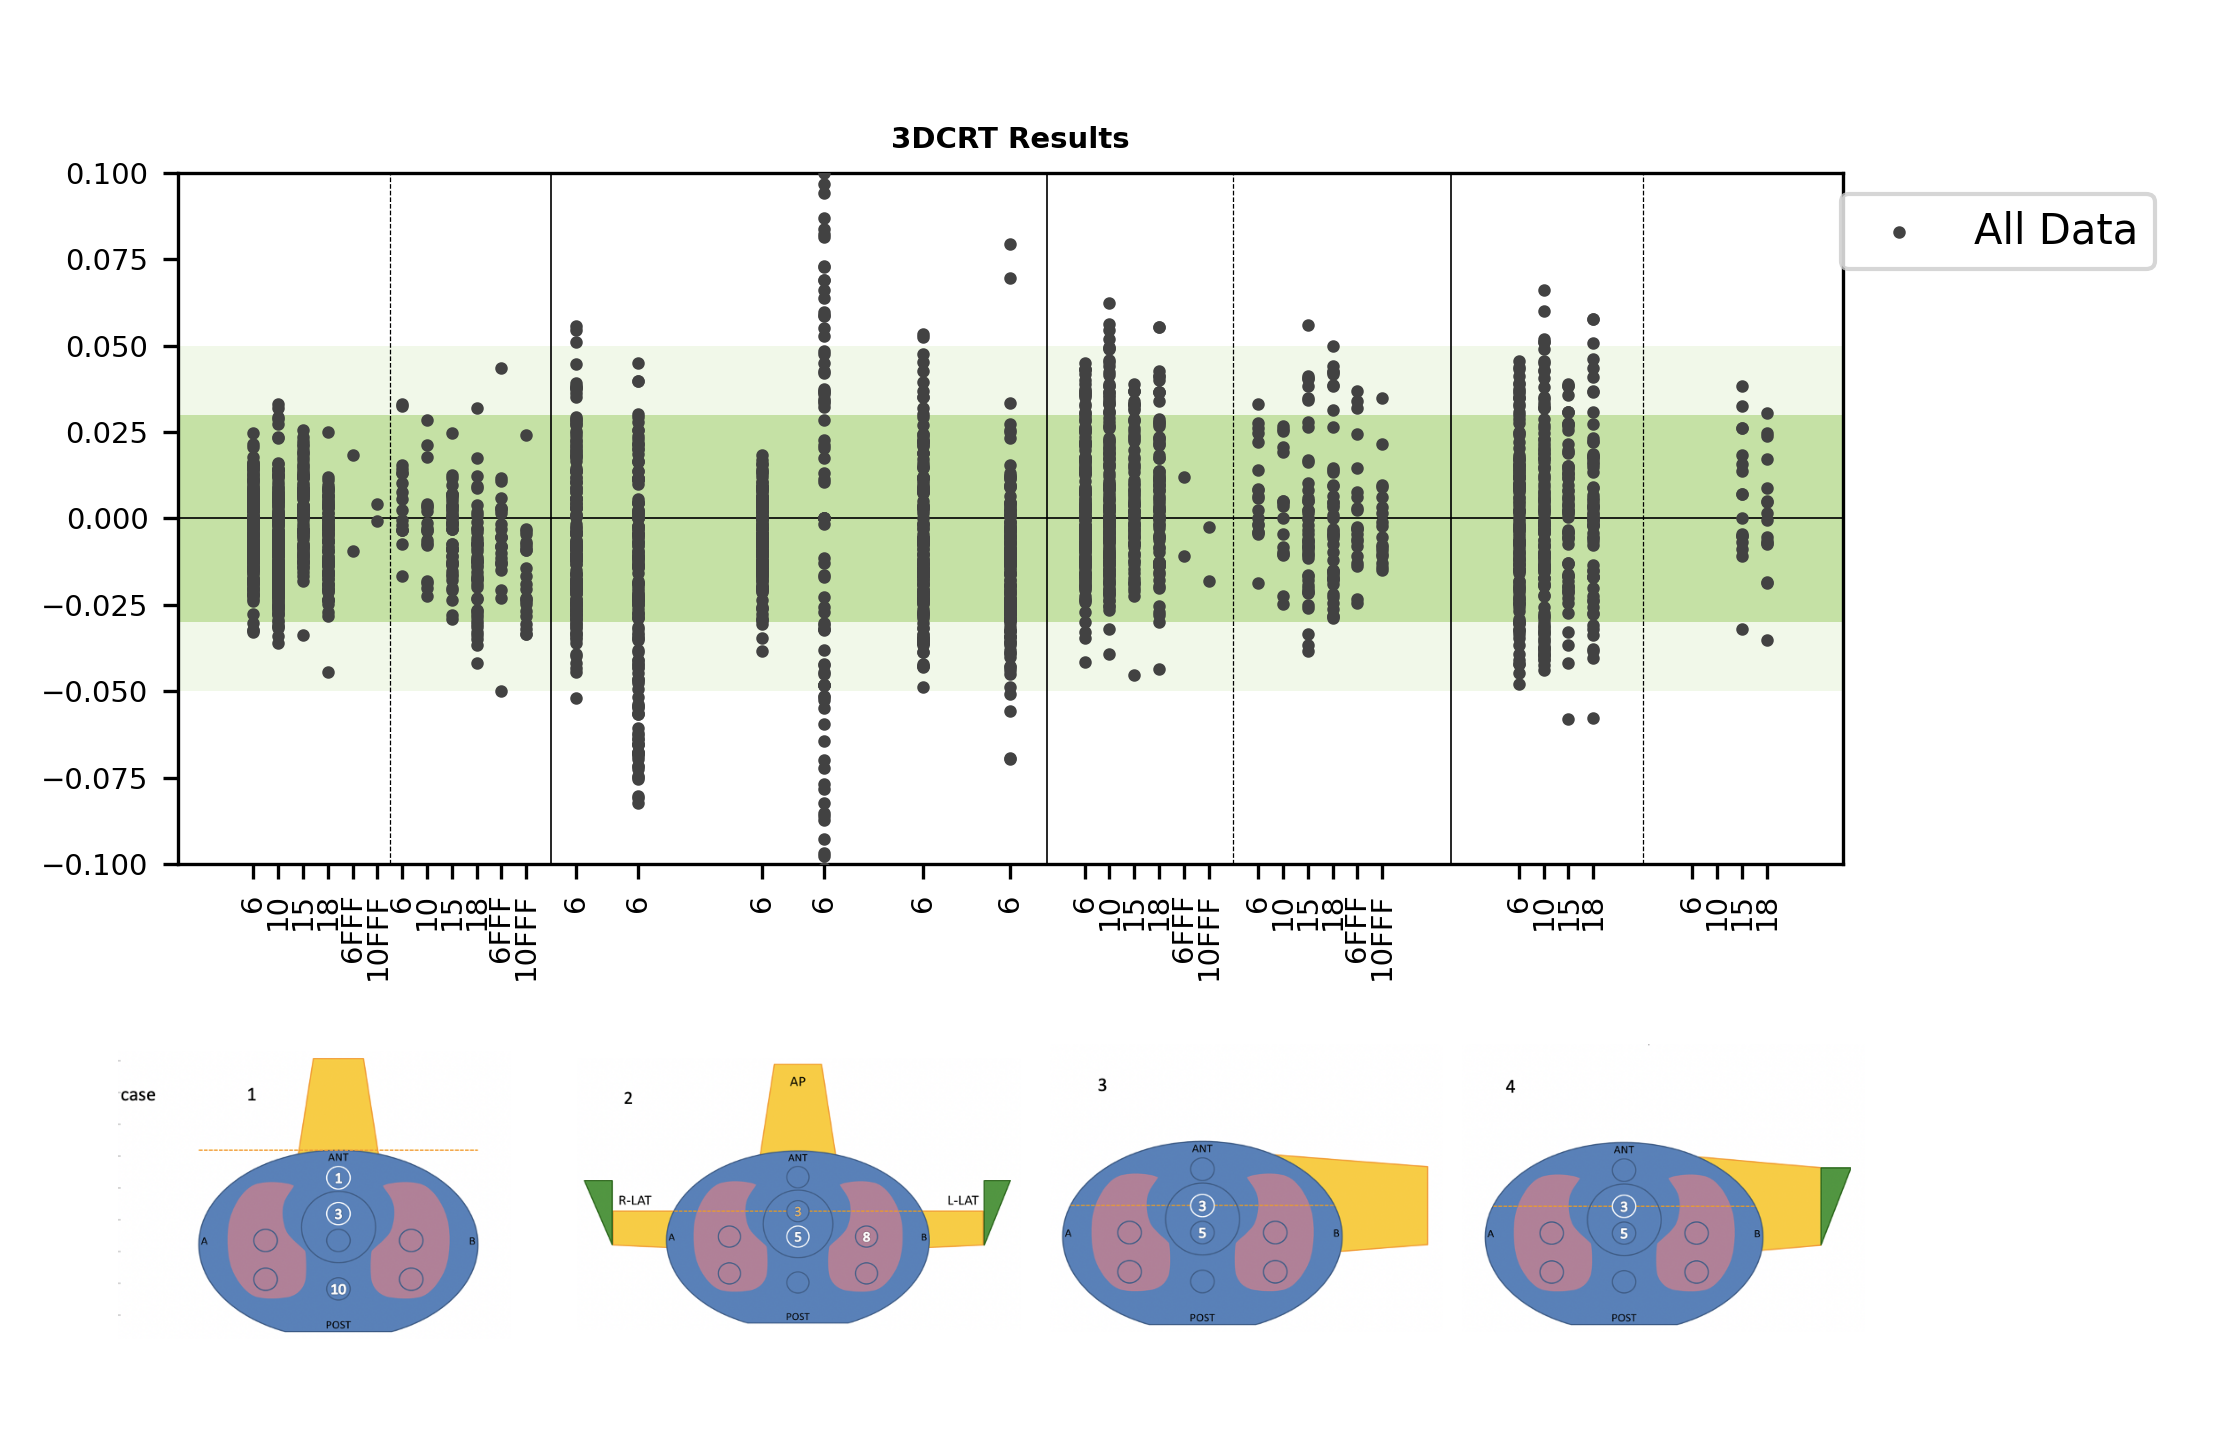
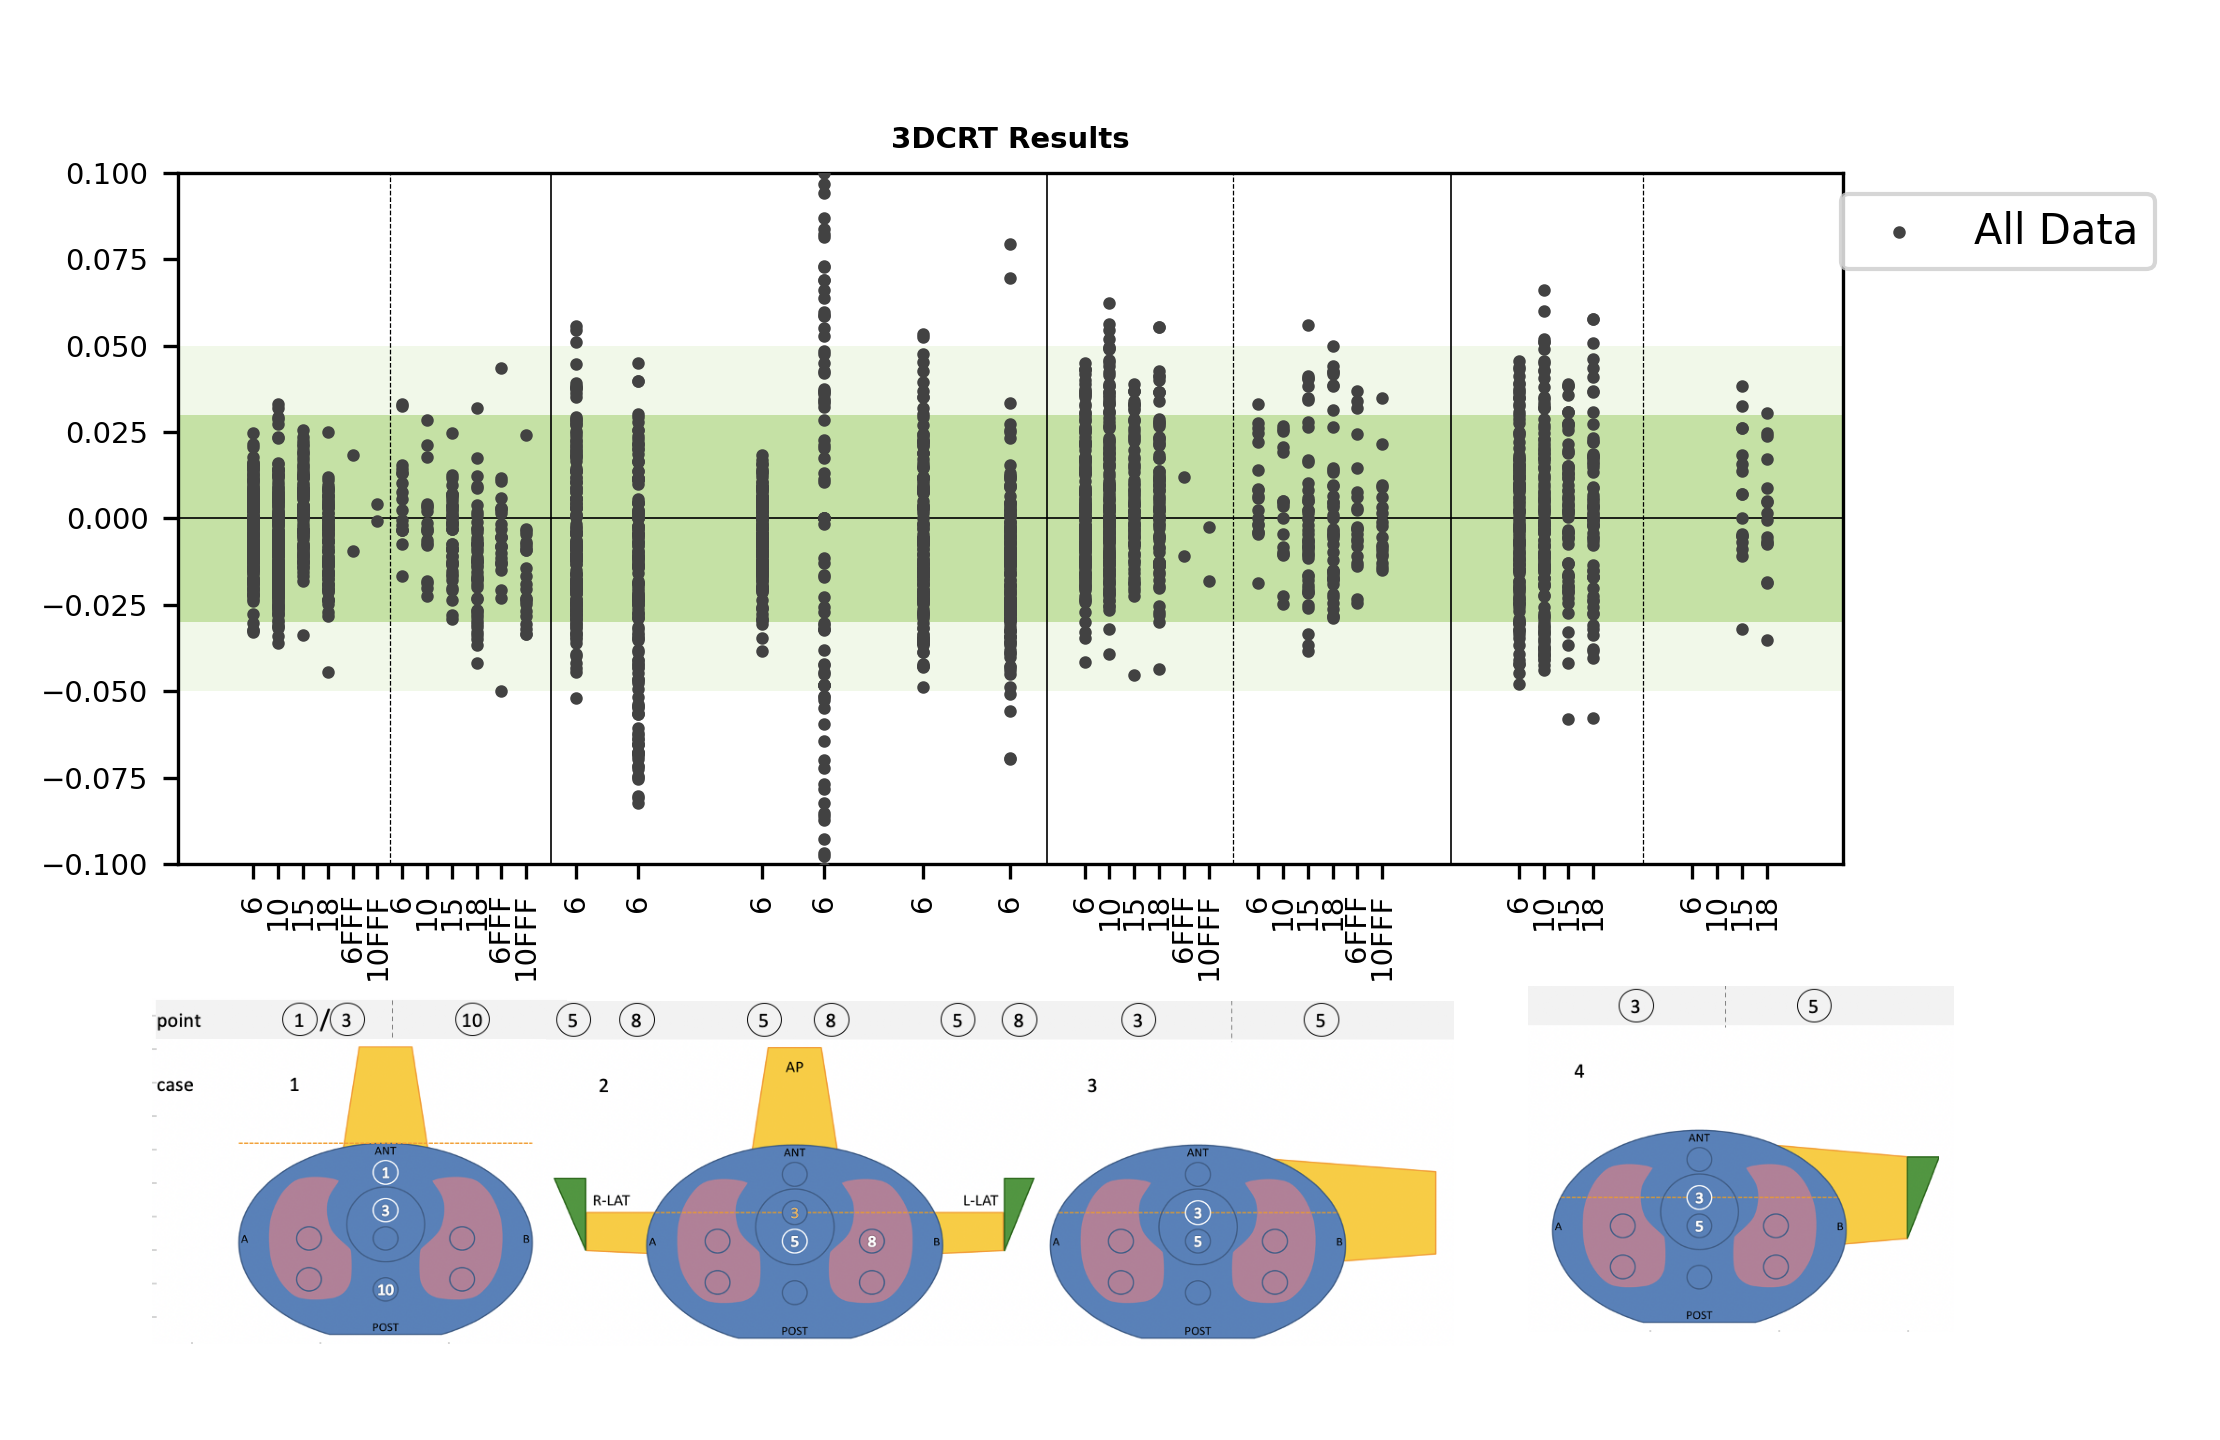
three images collaborated

diff --git a/plot3DCRT.py b/plot3DCRT.py
@@ -8,10 +8,11 @@ from matplotlib.cbook import get_sample_data
 
 
 def all_data():
-    imagePath = '/Users/jcl/Desktop/AABKoala/images/case1.png'
-    image2Path = '/Users/jcl/Desktop/AABKoala/images/case2.png'
-    image3Path = '/Users/jcl/Desktop/AABKoala/images/case3.png'
-    image4Path = '/Users/jcl/Desktop/AABKoala/images/case4.png'
+    imagePath = '/Users/jcl/Desktop/AABKoala/images/case1full.png'
+    image2Path = '/Users/jcl/Desktop/AABKoala/images/case2full.png'
+    image3Path = '/Users/jcl/Desktop/AABKoala/images/case3full.png'
+    image4Path = '/Users/jcl/Desktop/AABKoala/images/case4full.png'
+    all_cases_path = '/Users/jcl/Desktop/AABKoala/images/all_cases.png'
     # load 3DCRT data
     df = pd.read_excel("./Book1.xlsx")
     print(df)
@@ -75,21 +76,21 @@ def all_data():
     plt.axhline(y=0, c="black", linewidth=0.4)
 
     # add images
-    case_image = plt.imread(get_sample_data(imagePath))
     fig = plt.gcf()
-    image1ax = fig.add_axes([0.03, 0.07, 0.2, 0.2], anchor='NE', zorder=3)
+    case_image = plt.imread(get_sample_data(imagePath))
+    image1ax = fig.add_axes([0.015, 0.067, 0.24, 0.24], anchor='NE', zorder=3)
     image1ax.imshow(case_image)
     image1ax.axis('off')
     case_image = plt.imread(get_sample_data(image2Path))
-    image2ax = fig.add_axes([0.26, 0.065, 0.2, 0.2], anchor='NE', zorder=3)
+    image2ax = fig.add_axes([0.23, 0.065, 0.24, 0.24], anchor='NE', zorder=3)
     image2ax.imshow(case_image)
     image2ax.axis('off')
     case_image = plt.imread(get_sample_data(image3Path))
-    image3ax = fig.add_axes([0.45, 0.075, 0.2, 0.2], anchor='NE', zorder=3)
+    image3ax = fig.add_axes([0.415, 0.065, 0.24, 0.24], anchor='NE', zorder=2)
     image3ax.imshow(case_image)
     image3ax.axis('off')
     case_image = plt.imread(get_sample_data(image4Path))
-    image4ax = fig.add_axes([0.64, 0.075, 0.2, 0.2], anchor='NE', zorder=3)
+    image4ax = fig.add_axes([0.64, 0.075, 0.24, 0.24], anchor='NE', zorder=3)
     image4ax.imshow(case_image)
     image4ax.axis('off')
 
